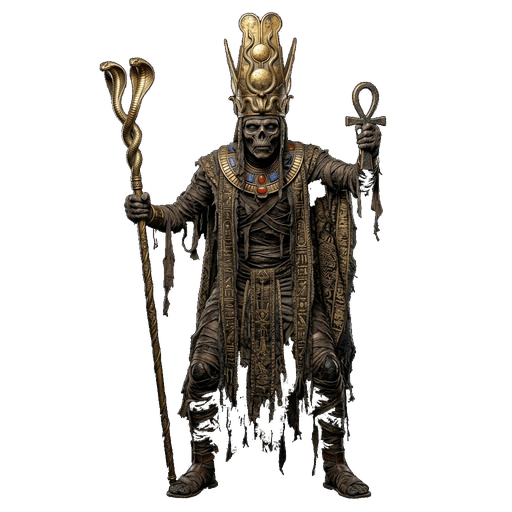
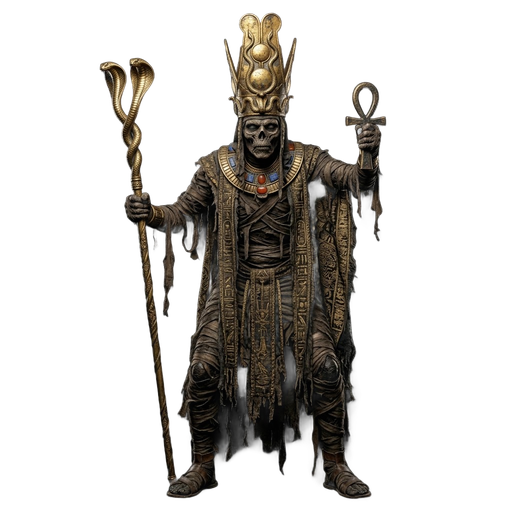
fix(enemies): refine cutouts for e116, e129, e134, e140, e143, e145 restoring solid clothes and cleaning staff diamond (v7.34)

diff --git a/js/data.js b/js/data.js
@@ -5,7 +5,7 @@
  ============================================================ */
 
 /* ── App info ── */
-export const APP_VERSION = "7.33";
+export const APP_VERSION = "7.34";
 export const APP_RELEASE = "12/11/2026";
 export const APP_DEV = "djiglio.ai";
 
